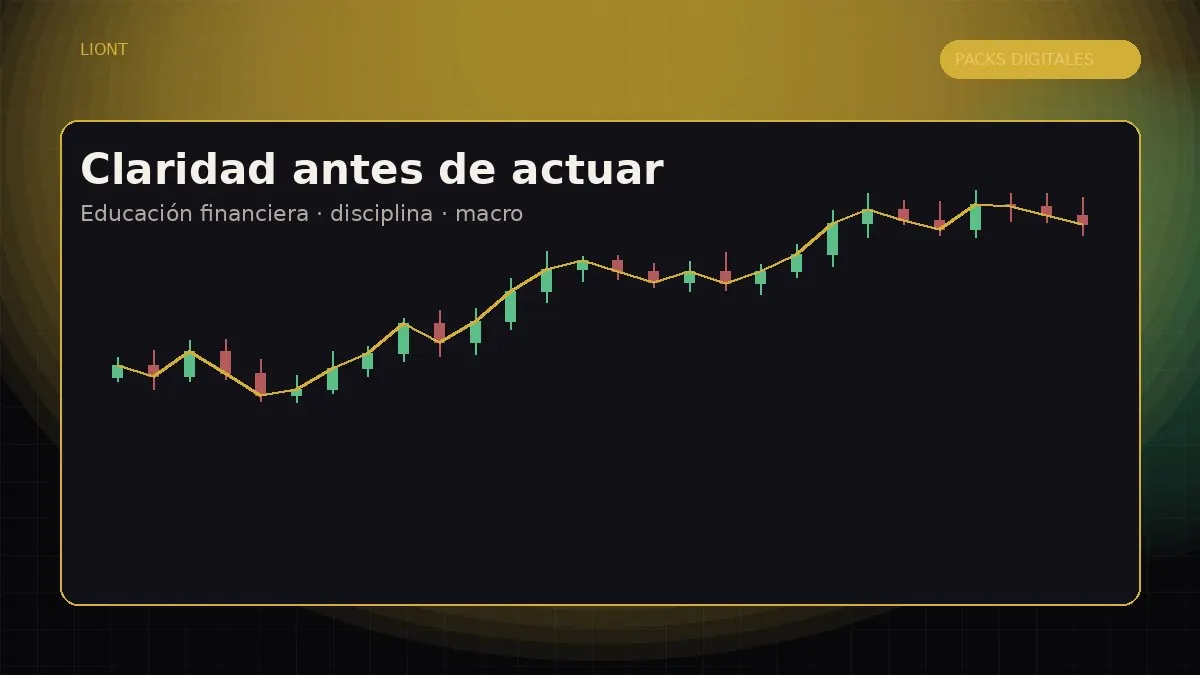
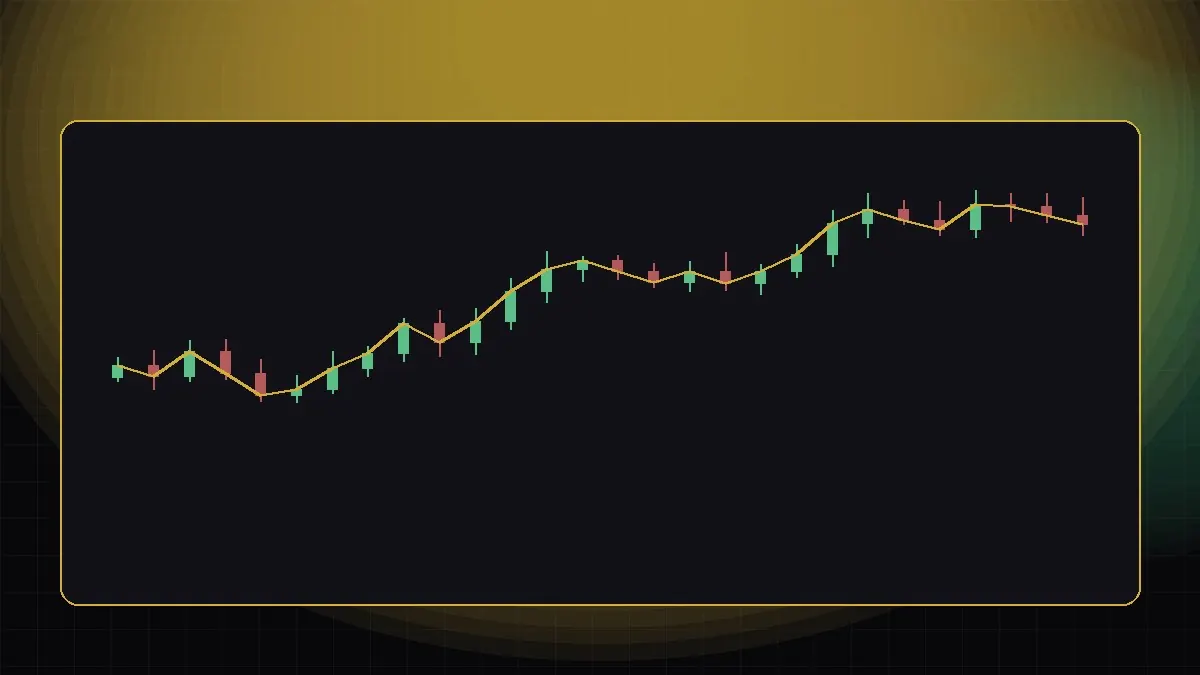
SEO v2 (QA): hero sin texto, aviso de riesgo literal, CLS (fallbacks métricos), enlaces subrayados, H2/H3 sin stuffing, LCP (hero-480 + preload fetchpriority), P2 baratos

diff --git a/index.html b/index.html
@@ -29,12 +29,12 @@
   <meta name="twitter:image:alt" content="LionT — plantilla de trading y checklist crypto" />
   <link rel="icon" href="assets/liont-logo.svg" type="image/svg+xml" />
   <meta name="theme-color" content="#0a0a0c" />
+  <link rel="preload" as="image" href="assets/hero-768.webp" imagesrcset="assets/hero-480.webp 480w, assets/hero-768.webp 768w, assets/hero-1200.webp 1200w" imagesizes="100vw" type="image/webp" fetchpriority="high" />
   <link rel="preconnect" href="https://fonts.googleapis.com" />
   <link rel="preconnect" href="https://fonts.gstatic.com" crossorigin />
   <link rel="preload" as="style" href="https://fonts.googleapis.com/css2?family=DM+Sans:ital,opsz,wght@0,9..40,400;0,9..40,500;0,9..40,600;0,9..40,700;1,9..40,400&family=Instrument+Serif:ital@0;1&display=swap" />
   <link rel="stylesheet" href="https://fonts.googleapis.com/css2?family=DM+Sans:ital,opsz,wght@0,9..40,400;0,9..40,500;0,9..40,600;0,9..40,700;1,9..40,400&family=Instrument+Serif:ital@0;1&display=swap" media="print" onload="this.media='all'" />
   <noscript><link rel="stylesheet" href="https://fonts.googleapis.com/css2?family=DM+Sans:ital,opsz,wght@0,9..40,400;0,9..40,500;0,9..40,600;0,9..40,700;1,9..40,400&family=Instrument+Serif:ital@0;1&display=swap" /></noscript>
-  <link rel="preload" as="image" href="assets/hero-1200.webp" imagesrcset="assets/hero-768.webp 768w, assets/hero-1200.webp 1200w" imagesizes="100vw" type="image/webp" />
   <link rel="stylesheet" href="styles.css" />
 <script type="application/ld+json">
 {
@@ -192,7 +192,7 @@
   <main id="contenido">
     <section class="hero" aria-labelledby="hero-title">
       <div class="hero-media" aria-hidden="true">
-        <picture><source type="image/webp" srcset="assets/hero-768.webp 768w, assets/hero-1200.webp 1200w" sizes="100vw" /><img src="assets/hero.jpg" alt="" width="1200" height="675" fetchpriority="high" /></picture>
+        <picture><source type="image/webp" srcset="assets/hero-480.webp 480w, assets/hero-768.webp 768w, assets/hero-1200.webp 1200w" sizes="100vw" /><img src="assets/hero.jpg" alt="" width="1200" height="675" fetchpriority="high" /></picture>
         <div class="hero-shade"></div>
       </div>
       <div class="wrap hero-copy">
@@ -224,7 +224,7 @@
 
     <section class="products wrap" id="productos" aria-label="Productos">
       <div class="section-head">
-        <h2>Elige tu pack: checklist y diario de trading, o informe FOMC</h2>
+        <h2>Elige tu pack</h2>
         <p>Dos herramientas concretas. Precio fijo. Entrega digital.</p>
       </div>
 
@@ -235,11 +235,11 @@
         <div class="product-body">
           <div class="product-top">
             <div>
-              <p class="product-label">Starter · disciplina <span class="badge-soft">Más elegido</span></p>
-              <h3>Pack FOMO <span class="h3-sub">— checklist crypto y plantilla de diario de trading</span></h3>
+              <p class="product-label">Starter · disciplina <span class="badge-soft">Empieza aquí</span></p>
+              <h3>Pack FOMO <span class="h3-sub">— checklist y diario de trading</span></h3>
             </div>
             <div class="price" role="group" aria-label="Precio 5 euros">
-              <strong>€5</strong>
+              <strong>5&nbsp;€</strong>
               <span>pago único</span>
             </div>
           </div>
@@ -278,7 +278,7 @@
             href="https://buy.stripe.com/14A7sL5x69T32QE1RHbII01"
             rel="noopener noreferrer"
             target="_blank"
-          >Comprar Pack FOMO · €5</a>
+          >Comprar Pack FOMO · 5&nbsp;€</a>
           <p class="cta-hint">Stripe Checkout seguro. Tras el pago, entrega por email.</p>
         </div>
       </article>
@@ -291,10 +291,10 @@
           <div class="product-top">
             <div>
               <p class="product-label">Informe · FOMC</p>
-              <h3>Brief Fed <span class="h3-sub">— la reunión FOMC explicada para crypto</span></h3>
+              <h3>Brief Fed <span class="h3-sub">— la FOMC para crypto</span></h3>
             </div>
             <div class="price" role="group" aria-label="Precio 9 euros">
-              <strong>€9</strong>
+              <strong>9&nbsp;€</strong>
               <span>pago único</span>
             </div>
           </div>
@@ -333,7 +333,7 @@
             href="https://buy.stripe.com/28EfZhbVu5CN9f267XbII02"
             rel="noopener noreferrer"
             target="_blank"
-          >Comprar Brief Fed · €9</a>
+          >Comprar Brief Fed · 9&nbsp;€</a>
           <p class="cta-hint">Pago en Stripe. Tras confirmar, recibes el brief por email.</p>
         </div>
       </article>
@@ -481,8 +481,7 @@
 
     <p class="disclaimer wrap">
       Aviso: el contenido de LionT es educativo e informativo. No constituye asesoramiento
-      financiero, fiscal ni de inversión. Operar con criptoactivos implica riesgo de pérdida
-      del capital. Pago procesado por Stripe; LionT / Tito Tapias es el vendedor del producto digital.
+      financiero, fiscal ni de inversión. Los criptoactivos son muy volátiles y de alto riesgo: puedes perder todo lo invertido. Pago procesado por Stripe; LionT / Tito Tapias es el vendedor del producto digital.
     </p>
   </main>
 
@@ -506,8 +505,8 @@
   <script>document.getElementById("y").textContent = new Date().getFullYear();</script>
 
   <div class="mobile-buybar" role="region" aria-label="Comprar rápido">
-    <a class="cta cta-primary" href="https://buy.stripe.com/14A7sL5x69T32QE1RHbII01" rel="noopener noreferrer" target="_blank">FOMO · €5</a>
-    <a class="cta cta-secondary" href="https://buy.stripe.com/28EfZhbVu5CN9f267XbII02" rel="noopener noreferrer" target="_blank">Fed · €9</a>
+    <a class="cta cta-primary" href="https://buy.stripe.com/14A7sL5x69T32QE1RHbII01" rel="noopener noreferrer" target="_blank">FOMO · 5&nbsp;€</a>
+    <a class="cta cta-secondary" href="https://buy.stripe.com/28EfZhbVu5CN9f267XbII02" rel="noopener noreferrer" target="_blank">Fed · 9&nbsp;€</a>
   </div>
 </body>
 </html>

diff --git a/guias/diario-de-trading/index.html b/guias/diario-de-trading/index.html
@@ -3,7 +3,7 @@
 <head>
   <meta charset="utf-8" />
   <meta name="viewport" content="width=device-width, initial-scale=1" />
-  <title>Diario de trading: cómo hacerlo, qué apuntar y ejemplo | LionT</title>
+  <title>Cómo hacer un diario de trading (con ejemplo) | LionT</title>
   <meta name="description" content="Cómo hacer un diario de trading paso a paso: qué apuntar en cada operación, cómo medir en R, ejemplo completo y revisión semanal. Guía en español, sin hype." />
   <link rel="canonical" href="https://titotapias-design.github.io/liont-shop/guias/diario-de-trading/" />
   <meta name="robots" content="index, follow, max-image-preview:large" />
@@ -11,13 +11,13 @@
   <meta property="og:locale" content="es_ES" />
   <meta property="og:site_name" content="LionT" />
   <meta property="og:url" content="https://titotapias-design.github.io/liont-shop/guias/diario-de-trading/" />
-  <meta property="og:title" content="Diario de trading: cómo hacerlo, qué apuntar y ejemplo | LionT" />
+  <meta property="og:title" content="Cómo hacer un diario de trading (con ejemplo) | LionT" />
   <meta property="og:description" content="Cómo hacer un diario de trading paso a paso: qué apuntar en cada operación, cómo medir en R, ejemplo completo y revisión semanal. Guía en español, sin hype." />
   <meta property="og:image" content="https://titotapias-design.github.io/liont-shop/assets/og-liont-1200x630.jpg" />
   <meta property="og:image:width" content="1200" />
   <meta property="og:image:height" content="630" />
   <meta name="twitter:card" content="summary_large_image" />
-  <meta name="twitter:title" content="Diario de trading: cómo hacerlo, qué apuntar y ejemplo | LionT" />
+  <meta name="twitter:title" content="Cómo hacer un diario de trading (con ejemplo) | LionT" />
   <meta name="twitter:description" content="Cómo hacer un diario de trading paso a paso: qué apuntar en cada operación, cómo medir en R, ejemplo completo y revisión semanal. Guía en español, sin hype." />
   <meta name="twitter:image" content="https://titotapias-design.github.io/liont-shop/assets/og-liont-1200x630.jpg" />
   <link rel="icon" href="../../assets/liont-logo.svg" type="image/svg+xml" />
@@ -292,7 +292,7 @@
           El <strong>Pack FOMO</strong> incluye un checklist antes de entrar, reglas de tamaño de posición y una plantilla
           de diario de trading lista para usar. Pago único de 5 €, entrega por email. Material educativo, no señales.
         </p>
-        <a class="cta cta-primary" href="../../#pack-fomo">Ver el Pack FOMO · €5</a>
+        <a class="cta cta-primary" href="../../#pack-fomo">Ver el Pack FOMO · 5&nbsp;€</a>
       </section>
 
       <section class="faq" id="faq" aria-labelledby="faq-title">
@@ -319,7 +319,7 @@
     </article>
     <p class="disclaimer">
       Aviso: contenido educativo e informativo. No constituye asesoramiento financiero, fiscal ni de inversión,
-      ni es una señal de compra o venta. Operar con criptoactivos implica riesgo de pérdida del capital.
+      ni es una señal de compra o venta. Los criptoactivos son muy volátiles y de alto riesgo: puedes perder todo lo invertido.
       Los ejemplos numéricos son ilustrativos.
     </p>
   </main>

diff --git a/styles.css b/styles.css
@@ -1,4 +1,23 @@
 /* LionT Shop — premium brand, mobile-first, warm dark */
+/* v2 (P1-3): fallbacks métricamente ajustados para evitar CLS al cargar las webfonts
+   (size-adjust/ascent-override calculados con fontTools sobre DM Sans e Instrument Serif vs Arial/Liberation) */
+@font-face {
+  font-family: "DM Sans Fallback";
+  src: local("Arial"), local("ArialMT"), local("Liberation Sans"), local("LiberationSans"), local("Helvetica");
+  size-adjust: 103.4%;
+  ascent-override: 95.93%;
+  descent-override: 29.98%;
+  line-gap-override: 0%;
+}
+@font-face {
+  font-family: "Instrument Serif Fallback";
+  src: local("Times New Roman"), local("TimesNewRomanPSMT"), local("Liberation Serif"), local("LiberationSerif"), local("Times");
+  size-adjust: 83.94%;
+  ascent-override: 117.95%;
+  descent-override: 36.93%;
+  line-gap-override: 0%;
+}
+
 :root {
   --bg: #08080b;
   --bg-elevated: #111117;
@@ -16,8 +35,8 @@
   --radius: 18px;
   --radius-sm: 12px;
   --shadow: 0 24px 60px rgba(0, 0, 0, 0.5);
-  --font: "DM Sans", "Segoe UI", system-ui, -apple-system, sans-serif;
-  --serif: "Instrument Serif", Georgia, "Times New Roman", serif;
+  --font: "DM Sans", "DM Sans Fallback", "Segoe UI", system-ui, -apple-system, sans-serif;
+  --serif: "Instrument Serif", "Instrument Serif Fallback", Georgia, "Times New Roman", serif;
   --max: 880px;
   --header-h: 4rem;
 }
@@ -726,7 +745,7 @@ details .answer a { word-break: break-word; }
     font-size: 0.9rem;
     box-shadow: none;
   }
-  body { padding-bottom: 5.5rem; }
+  body:has(.mobile-buybar) { padding-bottom: 5.5rem; }
 }
 
 
@@ -848,3 +867,25 @@ picture { display: block; }
 }
 .guide-cta h2 { margin-top: 0; }
 .guide-cta .cta { margin-top: 0.4rem; }
+
+/* --- v2 (QA Friday): a11y de enlaces, anclas, tabla, tarjetas --- */
+/* P1-4: enlaces dentro de texto corrido distinguibles sin depender del color (WCAG 1.4.1) */
+.guide p a, .guide li a, .guide td a, .faq .answer a, .faq p a, .disclaimer a, .section-head p a {
+  text-decoration: underline;
+  text-decoration-thickness: 1px;
+  text-underline-offset: 3px;
+}
+.guide .toc li a { text-decoration: none; }
+.guide .toc li a:hover { text-decoration: underline; }
+/* P2-4: anclas bajo la cabecera fija */
+[id] { scroll-margin-top: 5.5rem; }
+/* P2-1: tarjetas de guías sin sangría de lista */
+.guide .guide-cards { margin-left: 0; padding: 0; list-style: none; }
+.guide .guide-cards li { margin-bottom: 0; }
+.guide-more { margin-top: 1.5rem; }
+/* P2-3: pista de desplazamiento en tablas anchas (solo móvil) */
+.table-hint { display: none; font-size: 0.8rem; color: var(--text-dim); margin: 0 0 0.35rem; }
+@media (max-width: 560px) { .table-hint { display: block; } }
+.table-wrap:focus-visible { outline: 2px solid var(--gold); outline-offset: 2px; }
+/* v2: excepciones — tarjetas y botones no se subrayan */
+.guide .guide-cards a, .guide a.cta, .guide-cta a.cta { text-decoration: none; }

diff --git a/guias/que-es-la-fomc-bitcoin/index.html b/guias/que-es-la-fomc-bitcoin/index.html
@@ -162,8 +162,8 @@
         <p class="hero-kicker">Guía · macro y Fed</p>
         <h1>Qué es la FOMC y cómo afecta a <em>bitcoin</em></h1>
         <p class="guide-lead">
-          Ocho veces al año, un comité de la Reserva Federal decide el precio del dinero en dólares. Esa tarde, bitcoin
-          suele moverse más de lo normal. Aquí tienes qué es la FOMC, cuándo se reúne (con hora de España) y por qué
+          Ocho veces al año, un comité de la Reserva Federal decide el precio del dinero en dólares. Esa tarde, la volatilidad
+          de bitcoin puede aumentar. Aquí tienes qué es la FOMC, cuándo se reúne (con hora de España) y por qué
           importa para crypto, sin predicciones.
         </p>
         <p class="guide-meta">Por LionT · Publicado el 24 de octubre de 2026 · Lectura: 6 min</p>
@@ -218,7 +218,8 @@
         En la España peninsular eso suele ser <strong>las 20:00 y las 20:30</strong>; en las semanas en que EE. UU. y Europa
         cambian de hora en fechas distintas, es una hora antes (19:00). En Canarias, una hora menos.
       </p>
-      <div class="table-wrap">
+      <p class="table-hint" aria-hidden="true">Desliza la tabla hacia la izquierda para ver todas las columnas →</p>
+      <div class="table-wrap" role="region" aria-label="Calendario de reuniones de la FOMC con hora de Madrid" tabindex="0">
         <table>
           <thead><tr><th>Reunión</th><th>Día de la decisión</th><th>Comunicado (Madrid)</th><th>Proyecciones y dot plot</th></tr></thead>
           <tbody>
@@ -288,7 +289,7 @@
           Resumen de la decisión y del tono en lenguaje llano, niveles de referencia en BTC, ETH, SOL y XRP y una checklist de
           qué vigilar hasta la próxima reunión. Pago único de 9 €, entrega por email. Educación, no señales.
         </p>
-        <a class="cta cta-secondary" href="../../#brief-fed">Ver el Brief Fed · €9</a>
+        <a class="cta cta-secondary" href="../../#brief-fed">Ver el Brief Fed · 9&nbsp;€</a>
       </section>
 
       <section class="faq" id="faq" aria-labelledby="faq-title">
@@ -324,8 +325,7 @@
     </article>
     <p class="disclaimer">
       Aviso: contenido educativo e informativo. No constituye asesoramiento financiero, fiscal ni de inversión,
-      ni es una señal de compra o venta. Operar con criptoactivos implica riesgo de pérdida del capital.
-      Los ejemplos numéricos son ilustrativos.
+      ni es una señal de compra o venta. Los criptoactivos son muy volátiles y de alto riesgo: puedes perder todo lo invertido.
     </p>
   </main>
 

diff --git a/guias/index.html b/guias/index.html
@@ -104,6 +104,7 @@
       <h1>Guías de trading y macro, <em>sin hype</em></h1>
       <p class="guide-lead">Lo básico para operar con plan y entender a la Fed, explicado en español. Educación, no señales.</p>
     </header>
+    <h2>Guías disponibles</h2>
     <ul class="guide-cards">
       <li>
         <a href="diario-de-trading/">
@@ -118,11 +119,10 @@
         </a>
       </li>
     </ul>
-    <p style="margin-top:1.5rem">¿Buscas las herramientas? <a href="../#productos">Ver Pack FOMO y Brief Fed</a>.</p>
+    <p class="guide-more">¿Buscas las herramientas? <a href="../#productos">Ver Pack FOMO y Brief Fed</a>.</p>
     <p class="disclaimer">
       Aviso: contenido educativo e informativo. No constituye asesoramiento financiero, fiscal ni de inversión,
-      ni es una señal de compra o venta. Operar con criptoactivos implica riesgo de pérdida del capital.
-      Los ejemplos numéricos son ilustrativos.
+      ni es una señal de compra o venta. Los criptoactivos son muy volátiles y de alto riesgo: puedes perder todo lo invertido.
     </p>
   </main>
 

diff --git a/404.html b/404.html
@@ -9,7 +9,6 @@
   <meta property="og:type" content="website" />
   <meta property="og:locale" content="es_ES" />
   <meta property="og:site_name" content="LionT" />
-  <meta property="og:url" content="https://titotapias-design.github.io/liont-shop/404.html" />
   <meta property="og:title" content="Página no encontrada | LionT" />
   <meta property="og:description" content="Esta página no existe. Vuelve a la tienda LionT o a las guías." />
   <meta property="og:image" content="https://titotapias-design.github.io/liont-shop/assets/og-liont-1200x630.jpg" />
